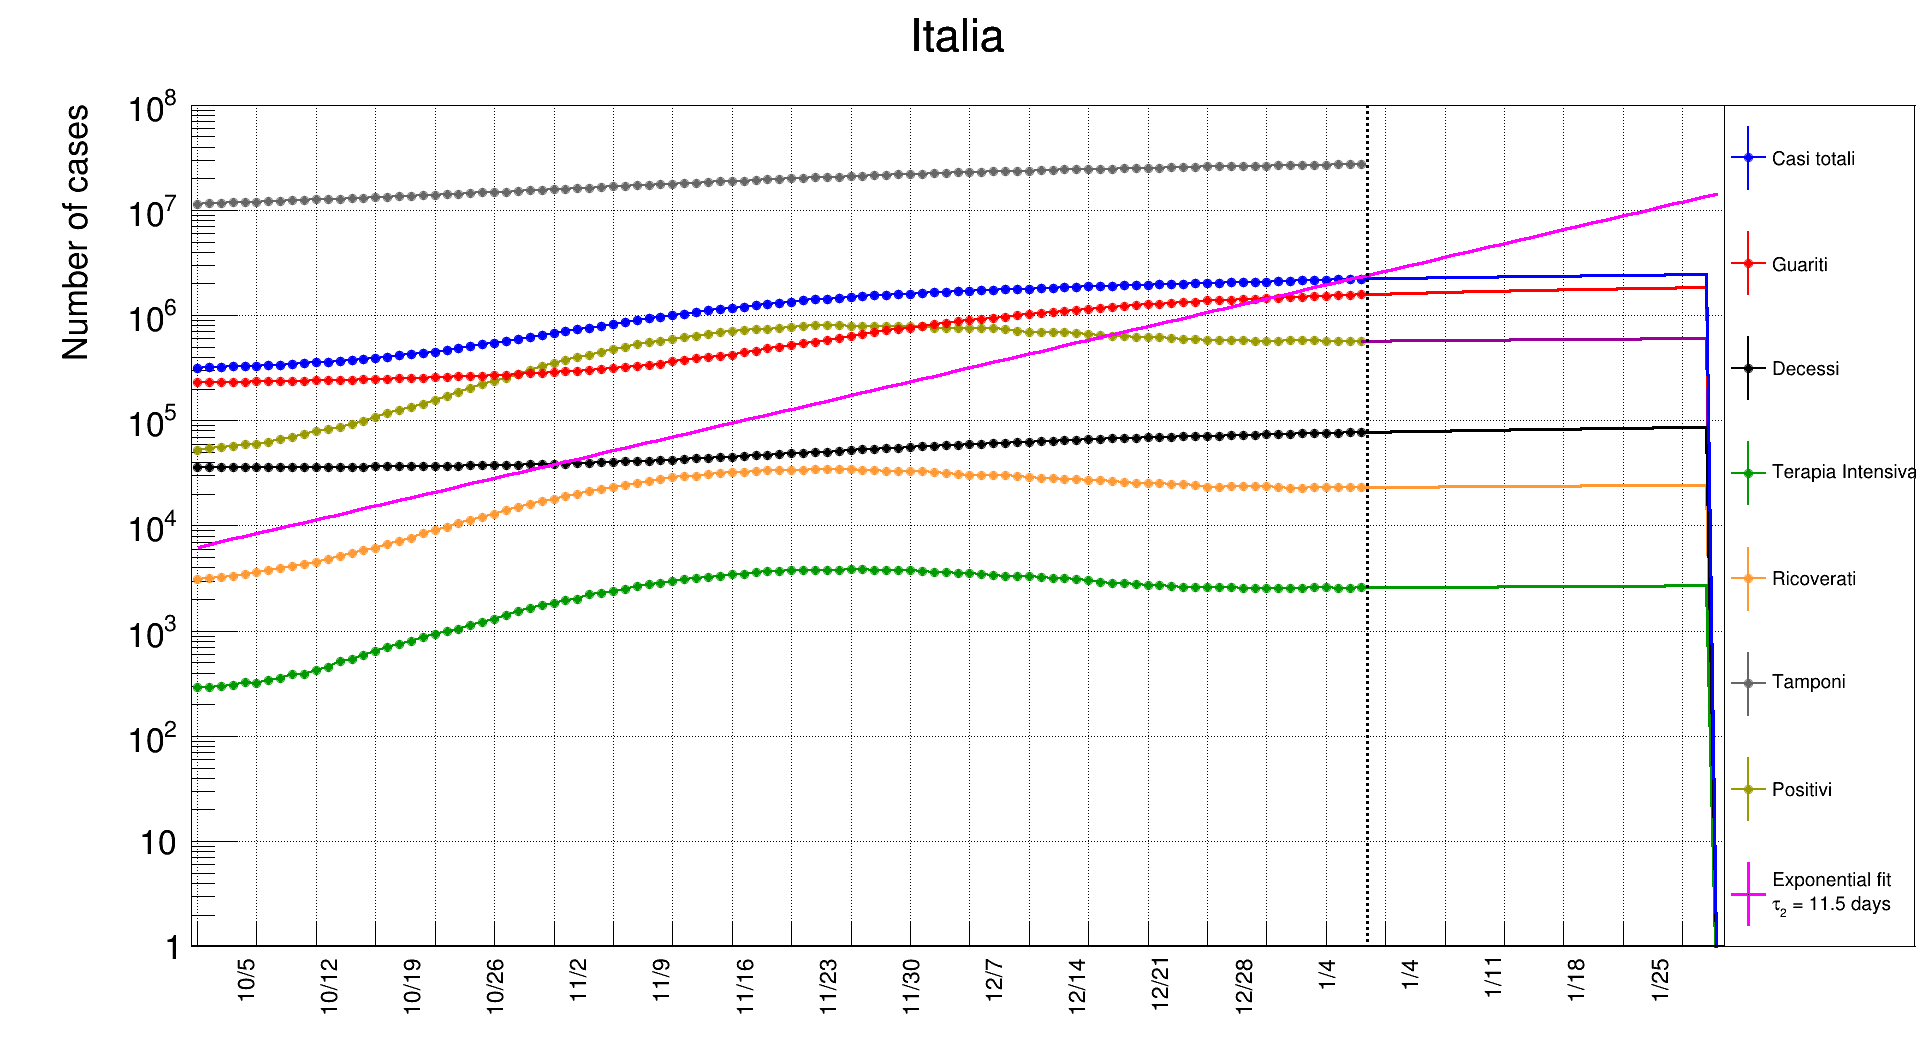
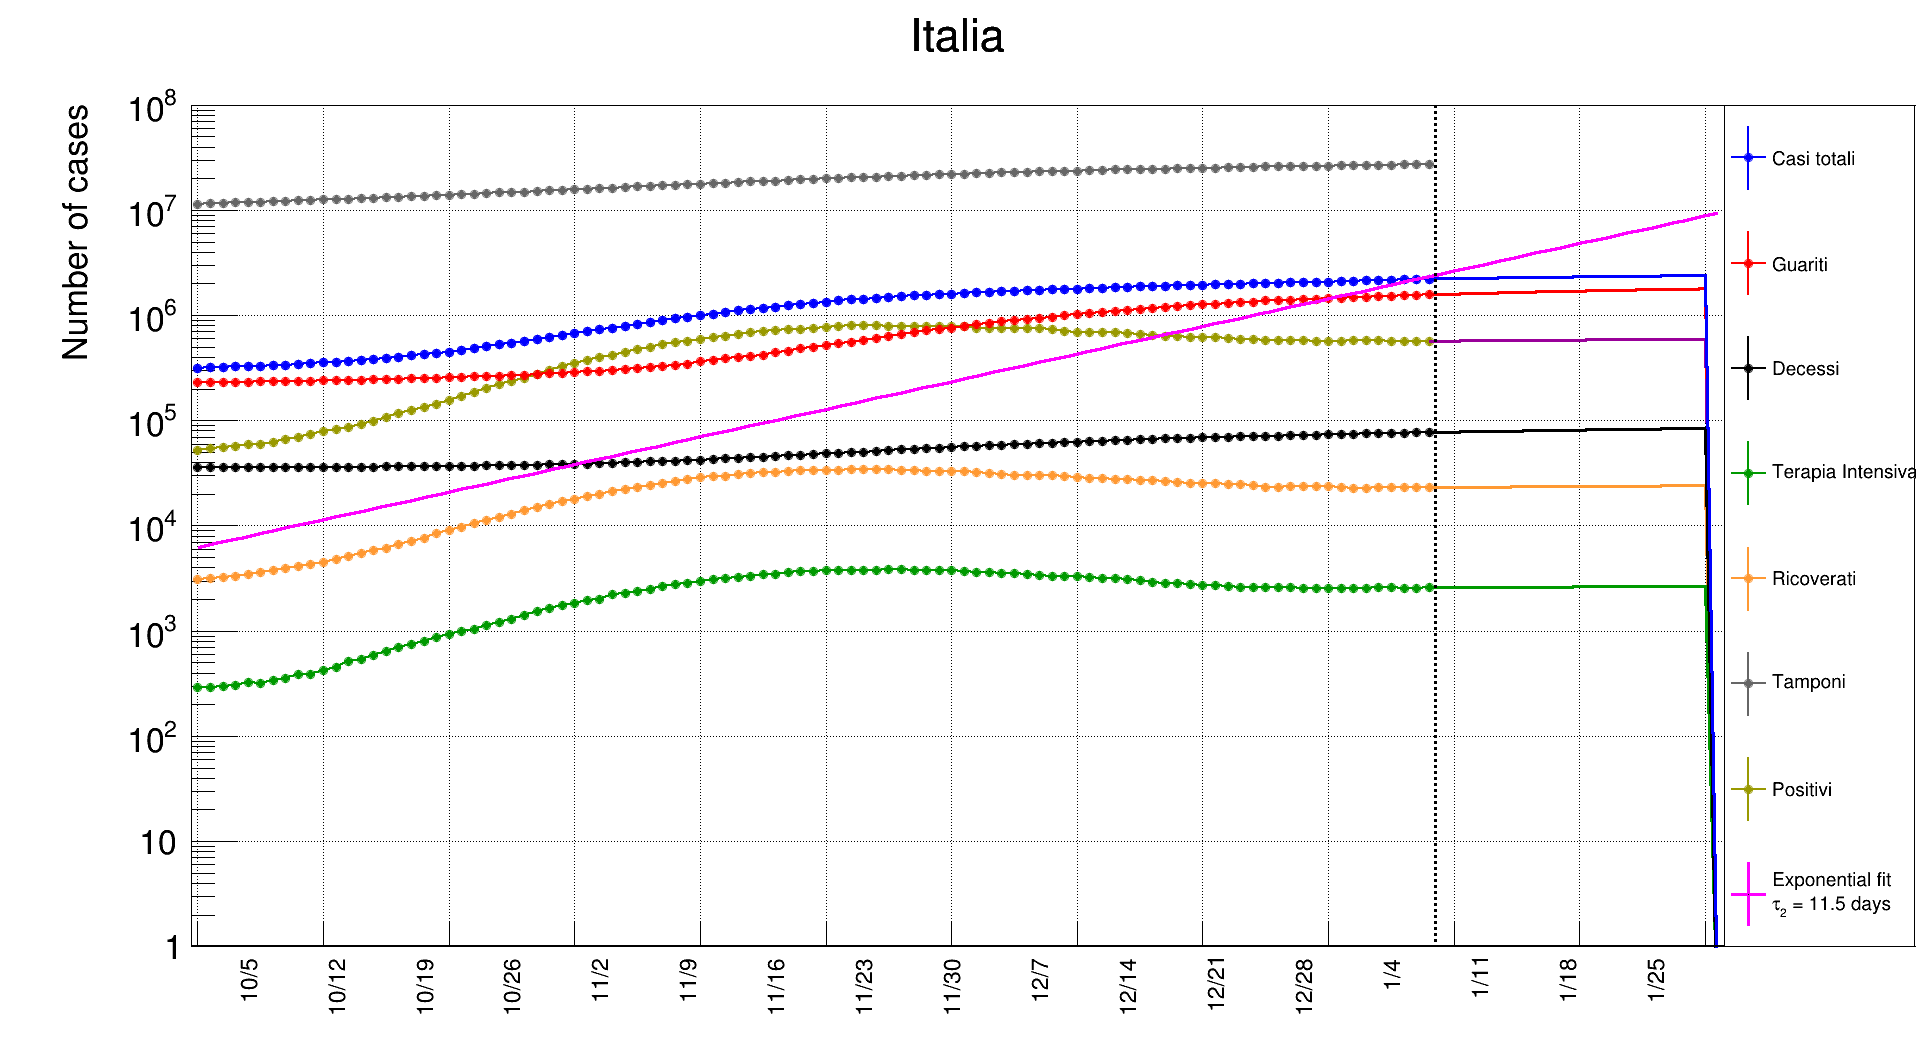
fix dates 2021

diff --git a/tools.py b/tools.py
@@ -338,7 +338,9 @@ def fillDataRegioni(fileName, column_regione = "denominazione_regione"):
             if line_count ==0:
                 labels = row[:]
             else:
-                date = row[labels.index("data")].split(" ")[0].split("T")[0].replace("-0","-").replace("2020-","").replace("2021-","").replace("-","/").replace("/0","/")+"/20"
+                date = row[labels.index("data")].split(" ")[0].split("T")[0].replace("-0","-").replace("2020-","").replace("2021-","").replace("-","/").replace("/0","/")
+                if "2020" in row[labels.index("data")]: date = date+"/20"
+                if "2021" in row[labels.index("data")]: date = date+"/21"
                 if not date in dates: dates.append(date)
                 regione = row[labels.index(column_regione)]
                 if regione == "Fuori Regione / Provincia Autonoma": continue
@@ -1001,6 +1003,10 @@ def extendDates(dates, nextend):
             newDate = "12/%d/20"%(i-275)
         elif i>306 and i<=337:
             newDate = "1/%d/21"%(i-306)
+        elif i>337 and i<=365:
+            newDate = "2/%d/21"%(i-337)
+        elif i>365 and i<=396:
+            newDate = "3/%d/21"%(i-365)
         if not newDate in dates: dates.append(newDate)
     return dates
 

diff --git a/scriptItaly.py b/scriptItaly.py
@@ -5,7 +5,7 @@ from tools import colors, fillDataRegioni, fillDataISTATpickle, newCases, getRat
 
 placesTest = []
 #placesTest = ["Italia","LaSpezia"]
-#placesTest = ["Italia"]
+placesTest = ["Italia"]
 #placesTest = ["Veneto"]
 startFromZero = False
 daysSmearing = 1
